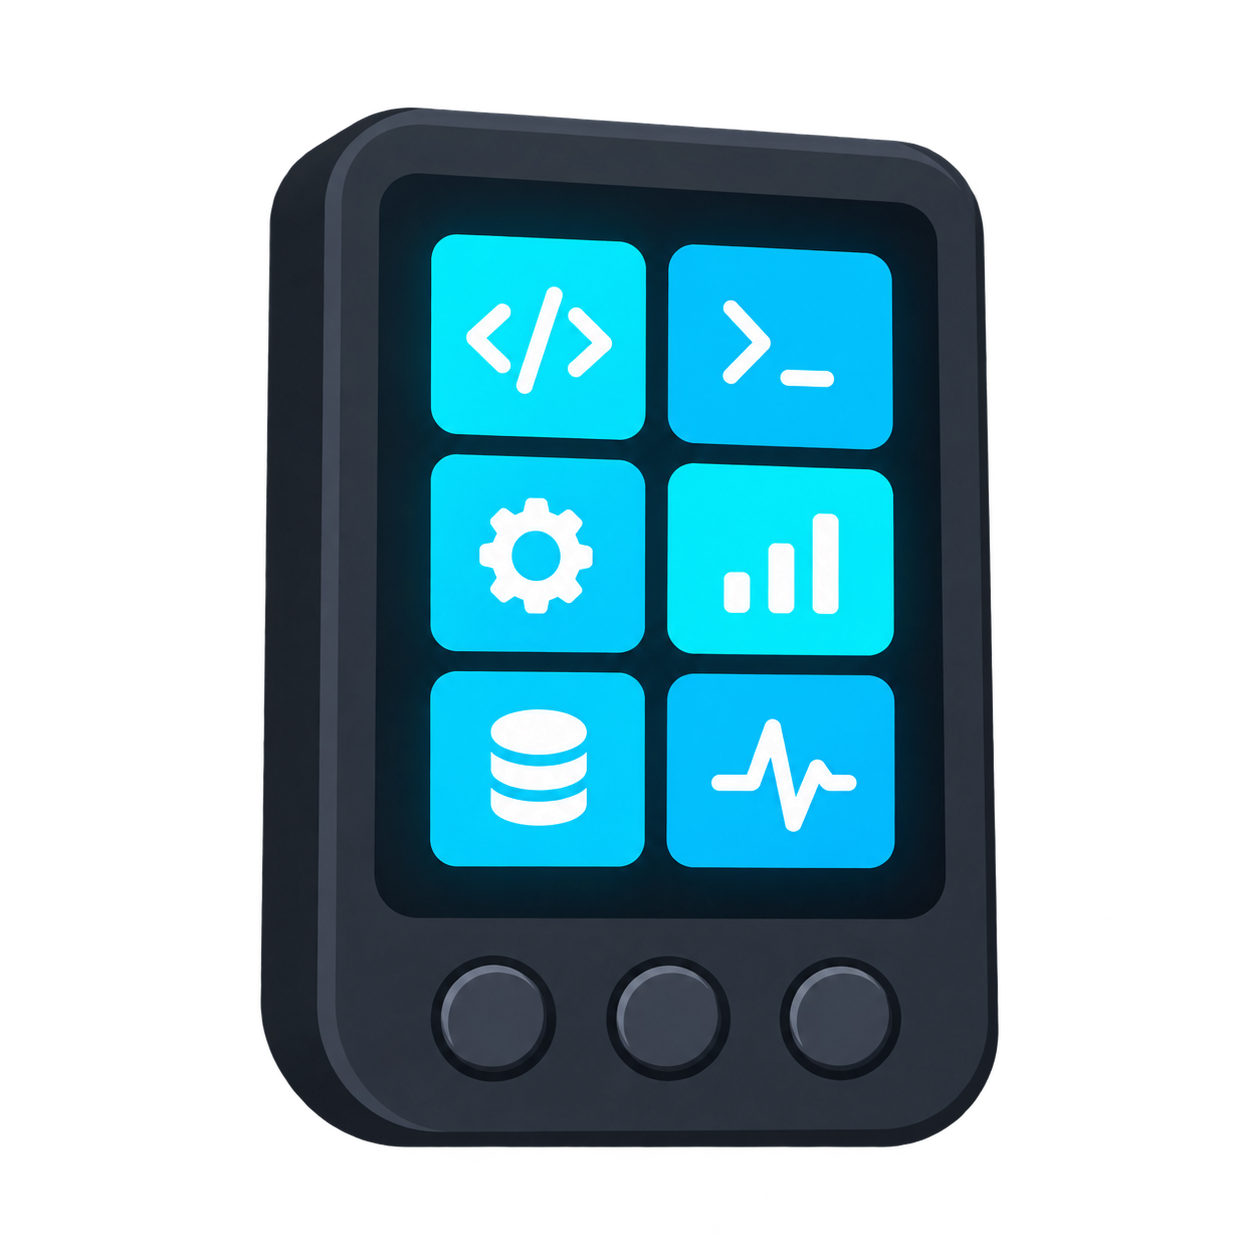
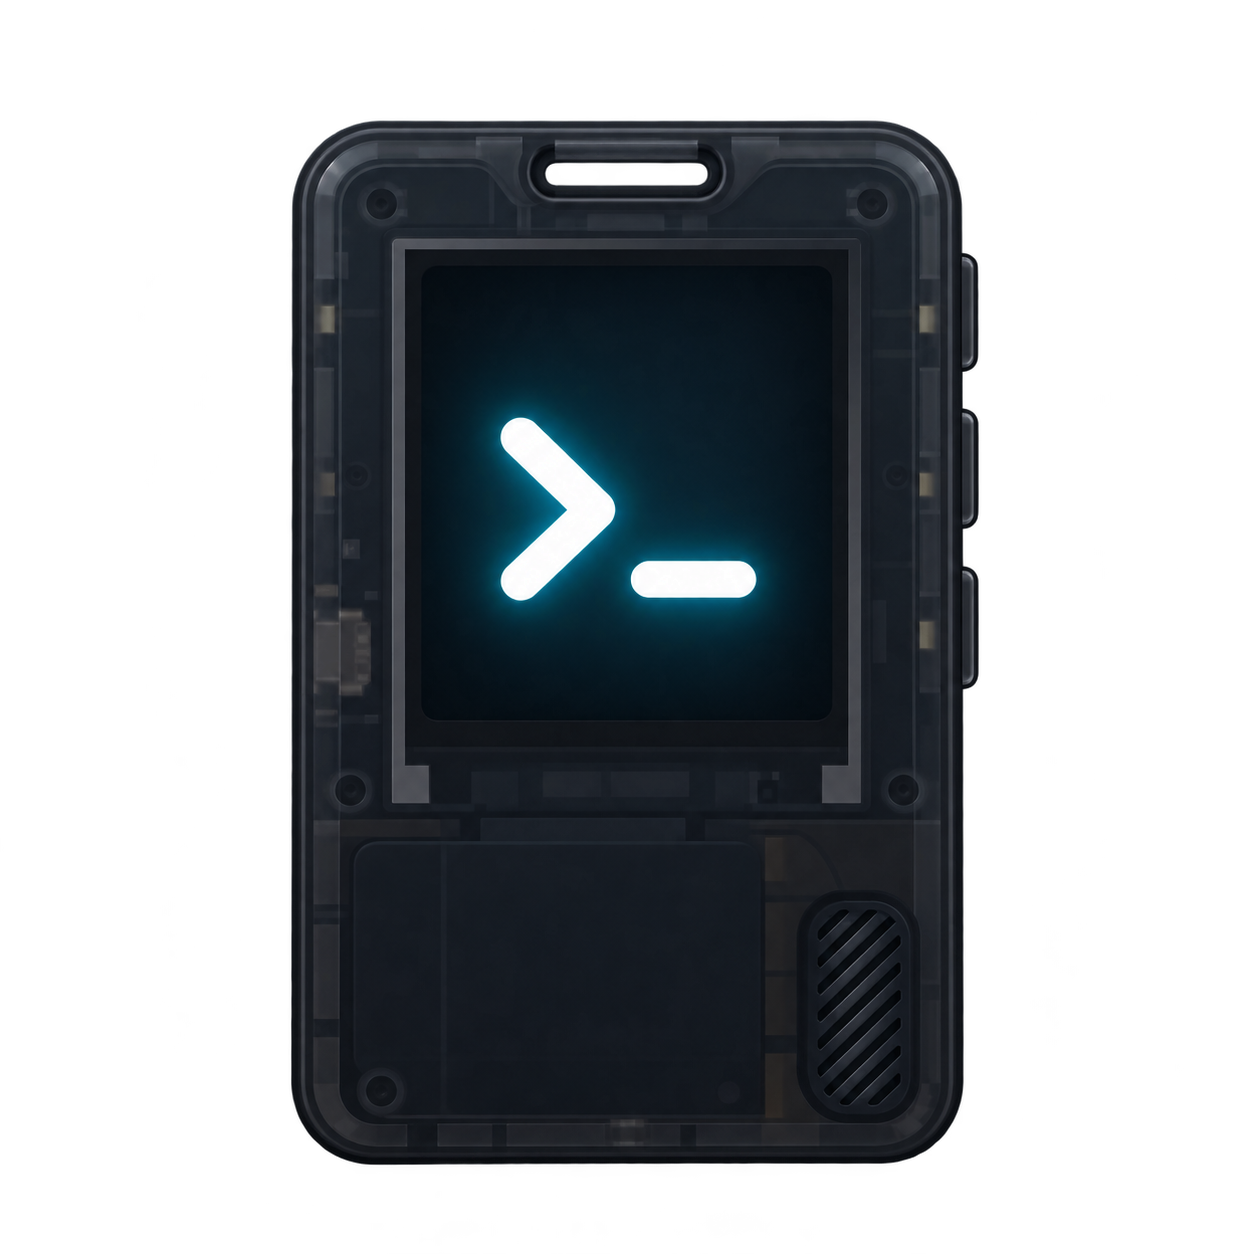
docs: Add UI previews and refine project branding

diff --git a/assets/README.md b/assets/README.md
@@ -44,4 +44,22 @@ Store reusable music and sound-effect sources in `music/`.
 
 ## Codex Passport icon
 
-[`images/codex-passport-icon.png`](images/codex-passport-icon.png) is a 1254 × 1254 transparent PNG generated with the built-in image tool on 2026-10-09 for the project README. Prompt: a dark handheld panel, six cyan tiles and three buttons, no text or vendor logos. It is an illustration, not a hardware photograph. Distributed with this project under its MIT license; no third-party brand artwork was supplied.
+[`images/codex-passport-icon.png`](images/codex-passport-icon.png) is a 1254 × 1254 transparent PNG regenerated with the built-in image tool on 2026-10-09. The user's hardware photograph informed the upright front view, three right-side buttons, top strap slot and lower speaker grille. The display carries a terminal prompt mark. This project illustration is not a real boot screen and does not imply official endorsement. It is distributed under the project's MIT license; the original user photograph is not included.
+
+## UI captures
+
+`images/ui/` contains six lossless 240 × 320 PNGs for both homepages: agents, commands, held dial, local sidebar, brightness and approval confirmation. They come from the actual application UI and pinned LVGL 9.5.0. Connection, battery and colors are fixtures. These are neither AI-generated mockups nor device photographs and do not replace hardware validation. They use the project license.
+
+With development dependencies available, regenerate the host captures:
+
+```bash
+./tools/test_codex_ui.sh /tmp/codex-passport-readme-ui
+```
+
+The test exports ten PPM frames. Convert the selected frames losslessly with the system image tool, without altering layout or pixel content. For example, on macOS:
+
+```bash
+sips -s format png /tmp/codex-passport-readme-ui/agents.ppm --out assets/images/ui/agents.png
+```
+
+Only the PNGs belong in source control; test executables, LVGL build caches and intermediate PPMs do not.

diff --git a/README.md b/README.md
@@ -19,6 +19,25 @@ No custom Mac app, plugin, Wi-Fi connection, cloud relay or API key is required.
 
 **Mic controls the computer's microphone.** The Passport's built-in microphone does not stream audio to the computer. Charging state is reported as unknown where the BSP cannot measure it.
 
+## Interface preview
+
+These **240 × 320 host-rendered captures** run the actual application UI code, not a mockup or an AI-generated screen. Connection, battery and Agent colors are test fixtures. The images demonstrate layout, not live desktop interaction or hardware acceptance.
+
+<table>
+  <tr><th>Agents</th><th>Commands and microphone</th><th>Joystick and dial</th></tr>
+  <tr>
+    <td><img src="assets/images/ui/agents.png" width="240" alt="Agents"></td>
+    <td><img src="assets/images/ui/commands.png" width="240" alt="Commands and microphone"></td>
+    <td><img src="assets/images/ui/dial-held.png" width="240" alt="Joystick and dial"></td>
+  </tr>
+  <tr><th>Local sidebar</th><th>Brightness</th><th>Approval confirmation</th></tr>
+  <tr>
+    <td><img src="assets/images/ui/sidebar.png" width="240" alt="Local sidebar"></td>
+    <td><img src="assets/images/ui/brightness.png" width="240" alt="Brightness"></td>
+    <td><img src="assets/images/ui/confirmation.png" width="240" alt="Approval confirmation"></td>
+  </tr>
+</table>
+
 ## Hardware and requirements
 
 | Item | Requirement |
@@ -121,4 +140,4 @@ Keep changes focused and run the relevant tests, then the complete validation ga
 - [codex-micro-4-core2](https://github.com/imliubo/codex-micro-4-core2) — ESP32 transport reference.
 - [freemicro](https://github.com/eliBenven/freemicro) — protocol and factory-default research.
 
-Thanks to the [Linux DO community](https://linux.do) for sharing and discussion.
+Thanks to the [Linux DO community](https://linux.do) for sharing and discussion, **Sincerity, Kindness, Unity, and Professionalism** — Together, we build a community we can all be proud of.

diff --git a/assets/README.zh_CN.md b/assets/README.zh_CN.md
@@ -42,4 +42,22 @@
 
 ## 控制面板图标
 
-[`images/codex-passport-icon.png`](images/codex-passport-icon.png) 是 1254 × 1254 的透明图片，于 2026-10-09 使用内置图像工具为项目说明生成。提示词描述：深色便携面板、六个青色方格、三个按键，不含文字及厂商标志。它是示意插图，不是硬件照片。随项目按宽松开源许可分发，未提供第三方品牌图形作为素材。
+[`images/codex-passport-icon.png`](images/codex-passport-icon.png) 是 1254 × 1254 的透明图片，于 2026-10-09 使用内置图像工具重新生成。经用户提供的硬件照片参考，改为正面竖直机身、右侧三个按键、顶部挂绳孔和下方扬声器格栅；屏幕使用终端提示符标识。图片是项目示意图，不是实际开机画面，不表示官方认可。随项目按宽松开源许可分发；用户的原始照片未加入仓库。
+
+## 界面渲染图
+
+`images/ui/`（界面图片目录）包含六张 240 × 320 无损图片，供中英文首页展示：智能体、命令、旋钮按住、本机侧边栏、亮度、审批确认。它们来自项目实际界面代码与锁定的图形库 9.5.0；连接、电量、颜色均为测试样例。不是生成式图片，也不是设备拍照，不能替代实机验证。随项目使用相同许可。
+
+在依赖已就绪的开发环境中，重新运行界面测试：
+
+```bash
+./tools/test_codex_ui.sh /tmp/codex-passport-readme-ui
+```
+
+测试输出十张原始位图，再使用电脑系统图片工具无损转换为发布图片，不修改布局或像素内容。例如：
+
+```bash
+sips -s format png /tmp/codex-passport-readme-ui/agents.ppm --out assets/images/ui/agents.png
+```
+
+仅图片进入源码；测试程序、图形库构建缓存和中间位图不提交。

diff --git a/README.zh_CN.md b/README.zh_CN.md
@@ -19,6 +19,25 @@
 
 **麦克风按钮控制的是电脑麦克风。** 设备内置麦克风不会向电脑传输音频。板级接口无法测量充电状态时，会报告未知，而不是伪造结果。
 
+## 界面演示
+
+以下是电脑端运行本项目真实界面代码生成的 **240 × 320 渲染图**，不是设备拍照，也不是生成式图片。连接、电量和智能体颜色来自测试样例，仅用于展示布局，不代表真实电脑交互或实机验收结果。
+
+<table>
+  <tr><th>智能体状态</th><th>命令与麦克风</th><th>摇杆与旋钮</th></tr>
+  <tr>
+    <td><img src="assets/images/ui/agents.png" width="240" alt="智能体状态"></td>
+    <td><img src="assets/images/ui/commands.png" width="240" alt="命令与麦克风"></td>
+    <td><img src="assets/images/ui/dial-held.png" width="240" alt="摇杆与旋钮"></td>
+  </tr>
+  <tr><th>本机侧边栏</th><th>屏幕亮度</th><th>审批二次确认</th></tr>
+  <tr>
+    <td><img src="assets/images/ui/sidebar.png" width="240" alt="本机侧边栏"></td>
+    <td><img src="assets/images/ui/brightness.png" width="240" alt="屏幕亮度"></td>
+    <td><img src="assets/images/ui/confirmation.png" width="240" alt="审批二次确认"></td>
+  </tr>
+</table>
+
 ## 硬件与环境
 
 | 项目 | 要求 |
@@ -121,4 +140,4 @@ idf.py -p PORT monitor
 - [codex-micro-4-core2（移植参考）](https://github.com/imliubo/codex-micro-4-core2)：蓝牙传输实现参考。
 - [freemicro（逆向参考）](https://github.com/eliBenven/freemicro)：协议和出厂默认行为研究。
 
-感谢 [Linux DO（社区）](https://linux.do) 的分享与交流。
+感谢 [Linux DO（社区）](https://linux.do) 的分享与交流，**真诚**、**友善**、**团结**、**专业**，共建你我引以为荣之社区。
